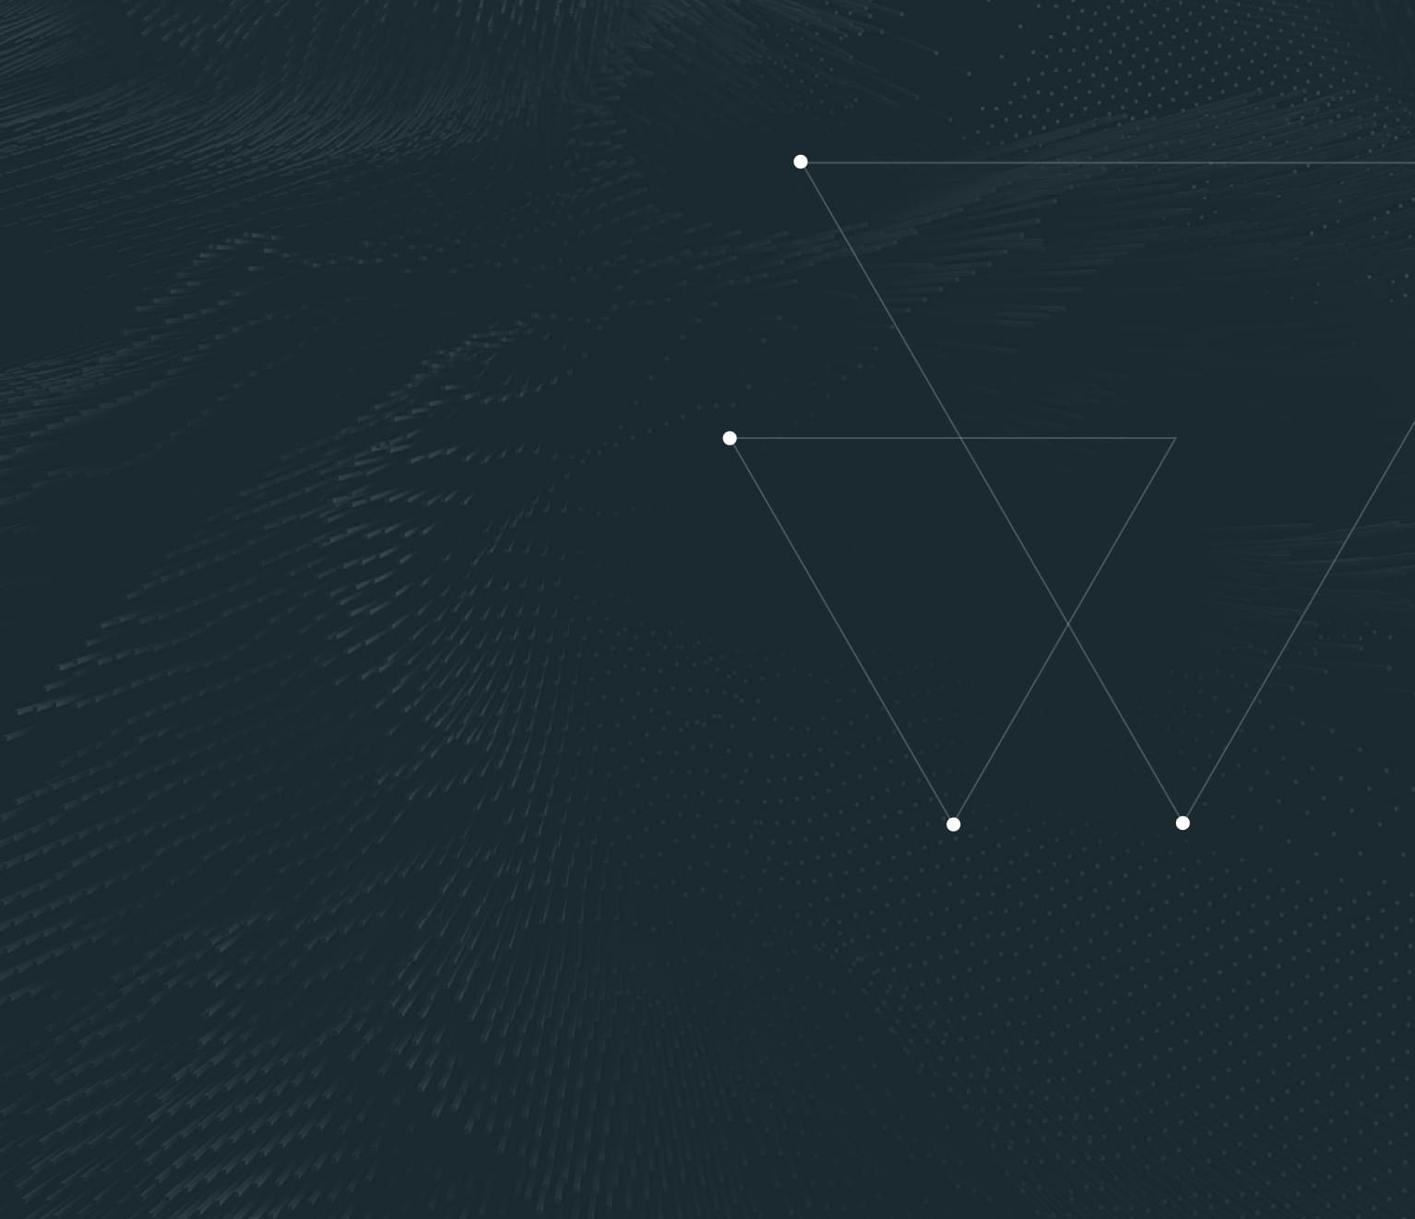
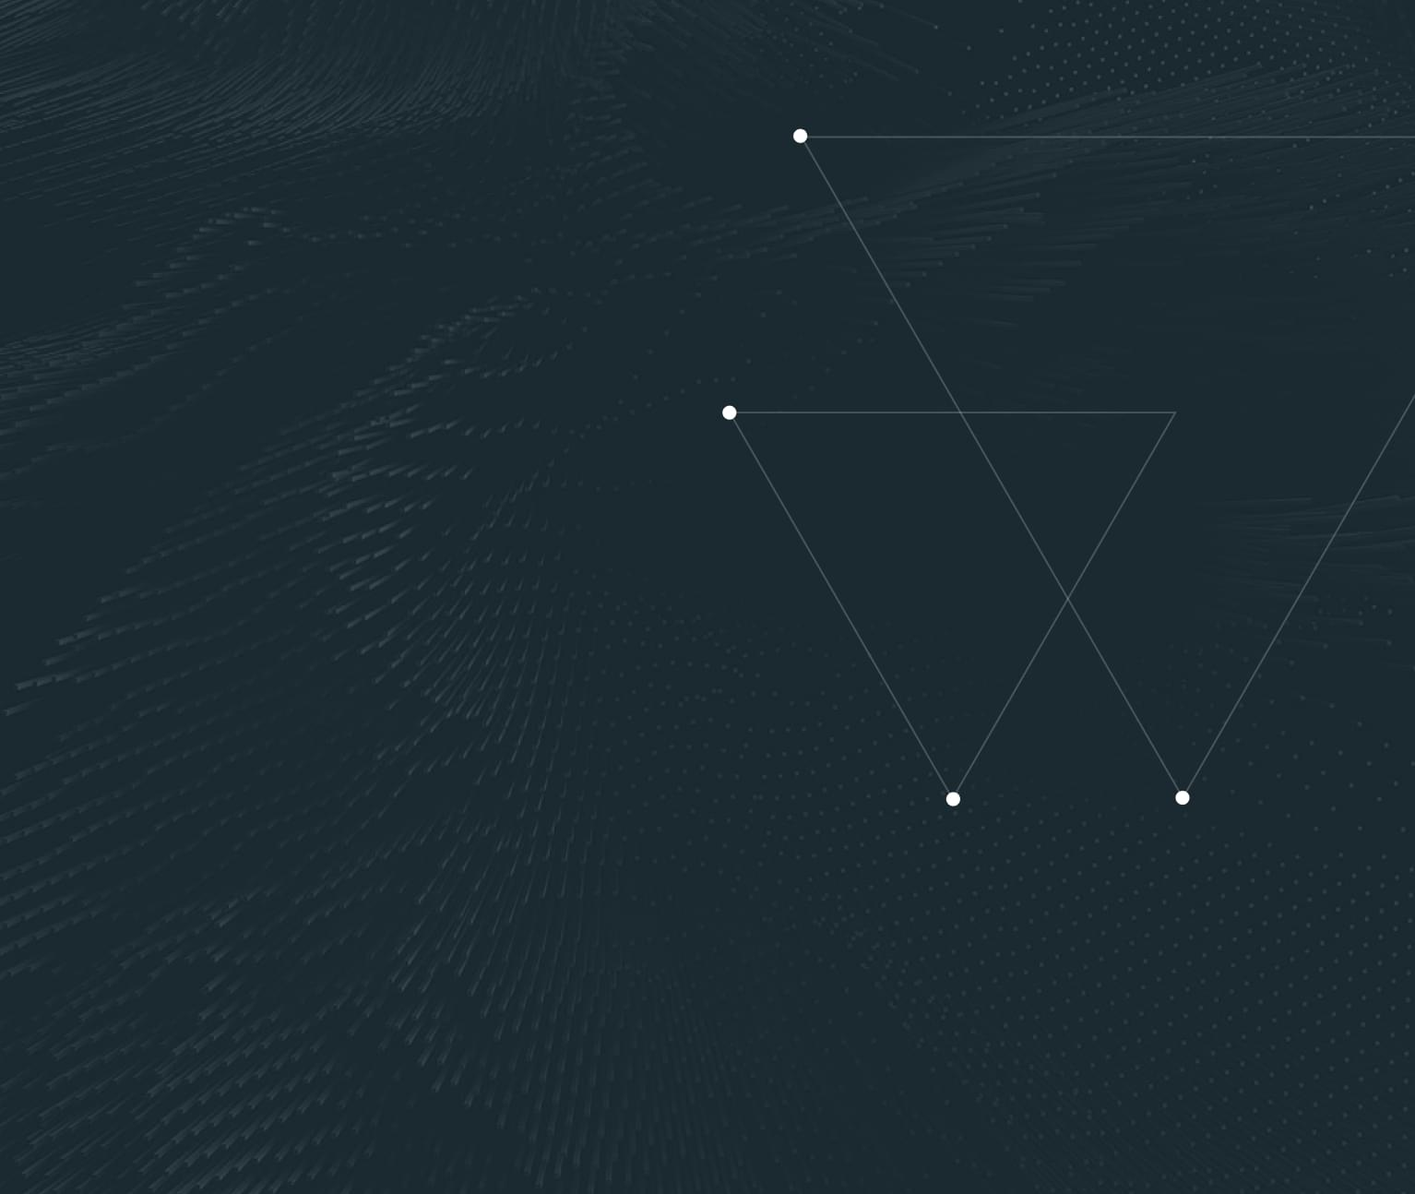
Вёрстка шапки и главного экрана

diff --git a/css/style.min.css b/css/style.min.css
@@ -1,3 +1,3 @@
 /*! normalize-scss | MIT/GPLv2 License | bit.ly/normalize-scss */
-html{-ms-text-size-adjust:100%;-webkit-text-size-adjust:100%;-webkit-box-sizing:border-box;box-sizing:border-box;height:100%;font-family:"PT Mono","Consolas",monospace;font-size:16px;line-height:22px}body{min-width:320px;min-height:100%;display:grid;grid-template-rows:-webkit-min-content 1fr -webkit-min-content;grid-template-rows:min-content 1fr min-content;-ms-flex-line-pack:start;align-content:start;margin:0;background-color:#fff;color:#000}article,aside,details,figcaption,figure,footer,header,main,menu,nav,section{display:block}h1{font-size:2em;margin:.67em 0}figure{margin:1em 40px}hr{-webkit-box-sizing:content-box;box-sizing:content-box;height:0;overflow:visible}code,kbd,pre,samp{font-family:monospace,monospace;font-size:1em}a{background-color:transparent;-webkit-text-decoration-skip:objects;text-decoration:none}abbr[title]{border-bottom:none;-webkit-text-decoration:underline dotted;text-decoration:underline dotted}b,strong{font-weight:bolder}dfn{font-style:italic}mark{background-color:#ff0;color:#000}small{font-size:80%}sub,sup{font-size:75%;line-height:0;position:relative;vertical-align:baseline}sub{bottom:-.25em}sup{top:-.5em}audio,canvas,video{display:inline-block}audio:not([controls]){display:none;height:0}img{border-style:none;max-width:100%;height:auto}svg:not(:root){overflow:hidden}button,input,optgroup,select,textarea{font-family:sans-serif;font-size:100%;line-height:1.15;margin:0}button,input{overflow:visible}button,select{text-transform:none}[type=reset],[type=submit],button,html [type=button]{-webkit-appearance:button}[type=button]::-moz-focus-inner,[type=reset]::-moz-focus-inner,[type=submit]::-moz-focus-inner,button::-moz-focus-inner{border-style:none;padding:0}[type=button]:-moz-focusring,[type=reset]:-moz-focusring,[type=submit]:-moz-focusring,button:-moz-focusring{outline:1px dotted ButtonText}[type=checkbox],[type=radio]{-webkit-box-sizing:border-box;box-sizing:border-box;padding:0}[type=number]::-webkit-inner-spin-button,[type=number]::-webkit-outer-spin-button{height:auto}[type=search]{-webkit-appearance:textfield;outline-offset:-2px}[type=search]::-webkit-search-cancel-button,[type=search]::-webkit-search-decoration{-webkit-appearance:none}::-webkit-file-upload-button{-webkit-appearance:button;font:inherit}fieldset{padding:.35em .75em .625em}legend{-webkit-box-sizing:border-box;box-sizing:border-box;display:table;max-width:100%;padding:0;color:inherit;white-space:normal}progress{display:inline-block;vertical-align:baseline}textarea{overflow:auto}summary{display:list-item}[hidden],template{display:none}@font-face{font-family:"PT Mono";font-weight:400;font-style:normal;font-display:swap;src:url(../fonts/ptmono-regular.woff2) format("woff2"),url(../fonts/ptmono-regular.woff) format("woff")}@font-face{font-family:"Roboto Condensed";font-weight:400;font-style:normal;font-display:swap;src:url(../fonts/robotocondensed-regular.woff2) format("woff2"),url(../fonts/robotocondensed-regular.woff) format("woff")}@font-face{font-family:"Roboto Condensed";font-weight:700;font-style:normal;font-display:swap;src:url(../fonts/robotocondensed-bold.woff2) format("woff2"),url(../fonts/robotocondensed-bold.woff) format("woff")}*,::after,::before{-webkit-box-sizing:inherit;box-sizing:inherit}.visually-hidden{position:absolute;width:1px;height:1px;margin:-1px;border:0;padding:0;white-space:nowrap;-webkit-clip-path:inset(100%);clip-path:inset(100%);clip:rect(0 0 0 0);overflow:hidden}.container{max-width:1200px;padding:0 40px;margin:0 auto}@media (max-width:1023px){.container{padding:0 20px}}@media (max-width:767px){.container{padding:0 10px}}
+html{-ms-text-size-adjust:100%;-webkit-text-size-adjust:100%;-webkit-box-sizing:border-box;box-sizing:border-box;height:100%;font-family:"PT Mono","Consolas",monospace;font-size:16px;line-height:22px}body{min-width:320px;min-height:100%;display:grid;grid-template-rows:-webkit-min-content 1fr -webkit-min-content;grid-template-rows:min-content 1fr min-content;-ms-flex-line-pack:start;align-content:start;margin:0;background-color:#fff;color:#000}article,aside,details,figcaption,figure,footer,header,main,menu,nav,section{display:block}h1{font-size:2em;margin:.67em 0}figure{margin:1em 40px}hr{-webkit-box-sizing:content-box;box-sizing:content-box;height:0;overflow:visible}code,kbd,pre,samp{font-family:monospace,monospace;font-size:1em}a{background-color:transparent;-webkit-text-decoration-skip:objects;text-decoration:none}abbr[title]{border-bottom:none;-webkit-text-decoration:underline dotted;text-decoration:underline dotted}b,strong{font-weight:bolder}dfn{font-style:italic}mark{background-color:#ff0;color:#000}small{font-size:80%}sub,sup{font-size:75%;line-height:0;position:relative;vertical-align:baseline}sub{bottom:-.25em}sup{top:-.5em}audio,canvas,video{display:inline-block}audio:not([controls]){display:none;height:0}img{border-style:none;max-width:100%;height:auto}svg:not(:root){overflow:hidden}button,input,optgroup,select,textarea{font-family:sans-serif;font-size:100%;line-height:1.15;margin:0}button,input{overflow:visible}button,select{text-transform:none}[type=reset],[type=submit],button,html [type=button]{-webkit-appearance:button}[type=button]::-moz-focus-inner,[type=reset]::-moz-focus-inner,[type=submit]::-moz-focus-inner,button::-moz-focus-inner{border-style:none;padding:0}[type=button]:-moz-focusring,[type=reset]:-moz-focusring,[type=submit]:-moz-focusring,button:-moz-focusring{outline:1px dotted ButtonText}[type=checkbox],[type=radio]{-webkit-box-sizing:border-box;box-sizing:border-box;padding:0}[type=number]::-webkit-inner-spin-button,[type=number]::-webkit-outer-spin-button{height:auto}[type=search]{-webkit-appearance:textfield;outline-offset:-2px}[type=search]::-webkit-search-cancel-button,[type=search]::-webkit-search-decoration{-webkit-appearance:none}::-webkit-file-upload-button{-webkit-appearance:button;font:inherit}fieldset{padding:.35em .75em .625em}legend{-webkit-box-sizing:border-box;box-sizing:border-box;display:table;max-width:100%;padding:0;color:inherit;white-space:normal}progress{display:inline-block;vertical-align:baseline}textarea{overflow:auto}summary{display:list-item}[hidden],template{display:none}@font-face{font-family:"PT Mono";font-weight:400;font-style:normal;font-display:swap;src:url(../fonts/ptmono-regular.woff2) format("woff2"),url(../fonts/ptmono-regular.woff) format("woff")}@font-face{font-family:"Roboto Condensed";font-weight:400;font-style:normal;font-display:swap;src:url(../fonts/robotocondensed-regular.woff2) format("woff2"),url(../fonts/robotocondensed-regular.woff) format("woff")}@font-face{font-family:"Roboto Condensed";font-weight:700;font-style:normal;font-display:swap;src:url(../fonts/robotocondensed-bold.woff2) format("woff2"),url(../fonts/robotocondensed-bold.woff) format("woff")}*,::after,::before{-webkit-box-sizing:inherit;box-sizing:inherit}.visually-hidden{position:absolute;width:1px;height:1px;margin:-1px;border:0;padding:0;white-space:nowrap;-webkit-clip-path:inset(100%);clip-path:inset(100%);clip:rect(0 0 0 0);overflow:hidden}.container{max-width:1464px;padding:0 24px;margin:0 auto}@media (max-width:767px){.container{padding:0 15px}}.button{display:block;padding:14px 26px;font-family:"Roboto Condensed","Arial",sans-serif;font-weight:700;font-size:14px;line-height:16px;text-align:center;letter-spacing:.05em;text-transform:uppercase;color:#fff;border:1px solid #fff;border-radius:5px}.page-header{padding:33px 0 0;overflow:hidden;background:#1b2d37 url(../img/main-bg-desktop.jpg) no-repeat center/cover}@media (max-width:1023px){.page-header{padding:20px 0 0;background-image:url(../img/main-bg-tablet.jpg)}}@media (max-width:767px){.page-header{padding:10px 0 72px;background-image:url(../img/main-bg-mobile.jpg)}}.header-top{margin-bottom:68px;display:-webkit-box;display:-ms-flexbox;display:flex;-ms-flex-wrap:wrap;flex-wrap:wrap;-webkit-box-pack:end;-ms-flex-pack:end;justify-content:flex-end;-webkit-box-align:center;-ms-flex-align:center;align-items:center}@media (max-width:1023px){.header-top{margin-bottom:0}}@media (max-width:767px){.header-top{margin-bottom:30px}}.header-top__logo{margin-right:auto}@media (max-width:767px){.header-top__logo{margin-left:2px}}.header-top__logo img{vertical-align:top}@media (max-width:767px){.header-top__logo img{width:38px;height:auto}}.header-top__contact{display:block;margin-left:81px;padding:15px 0 15px 40px;font-size:16px;line-height:18px;color:#fff;position:relative}.header-top__contact svg{position:absolute;top:50%;left:0;-webkit-transform:translate(0,-50%);transform:translate(0,-50%)}.header-top__contact:focus,.header-top__contact:hover{color:#00b2ff}.header-top__contact:active{opacity:.5}@media (max-width:1023px){.header-top__contact{margin-left:34px;padding:12px 0}.header-top__contact svg{position:static;top:0;-webkit-transform:none;transform:none}.header-top__contact span{display:none}}@media (max-width:767px){.header-top__contact{margin-left:24px}}@media (max-width:1023px){.header-top__contact--email svg{width:25px;height:19px}}.header-top__contact--phone svg{left:6px}@media (max-width:1023px){.header-top__contact--phone svg{width:24px;height:24px}}.header-top__button{margin-right:4px;margin-left:50px}.header-top__button:focus,.header-top__button:hover{color:#00b2ff;border-color:#00b2ff}.header-top__button:focus{opacity:.5}@media (max-width:1023px){.header-top__button{display:none}}.main-screen{max-width:785px;padding:105px 55px 275px 0;position:relative}@media (max-width:1023px){.main-screen{max-width:76%;padding:59px 55px 163px 66px}}@media (max-width:767px){.main-screen{max-width:100%;padding:136px 0 0}}.main-screen__wrapper{position:relative;z-index:90}@media (max-width:767px){.main-screen__wrapper{max-width:430px;margin:0 auto}}.main-screen h1{padding:0;margin:58px 0 26px -3px;font-family:"Roboto Condensed","Arial",sans-serif;font-weight:700;font-size:80px;line-height:94px;letter-spacing:.07em;text-transform:uppercase;color:#fff}@media (max-width:1023px){.main-screen h1{margin-bottom:29px;font-size:60px;line-height:70px}}@media (max-width:767px){.main-screen h1{margin-left:0;margin-bottom:27px;font-size:40px;line-height:47px}}.main-screen p{margin:0 0 45px;padding:0 0 0 95px;font-size:22px;line-height:34px;color:#fff;position:relative}.main-screen p::before{content:"";position:absolute;top:17px;left:0;width:66px;height:2px;background-color:#fff}@media (max-width:1023px){.main-screen p::before{width:33px}.main-screen p{margin-bottom:55px;padding-left:47px;font-size:18px;line-height:28px}}@media (max-width:767px){.main-screen p{margin-left:3px;margin-bottom:41px;font-size:16px;line-height:25px}}.main-screen__button{display:block;max-width:407px;margin-left:95px;padding:18px;background:#00b2ff;border:0;font-size:16px;line-height:19px}.main-screen__button:focus,.main-screen__button:hover{background:#fff;color:#00b2ff;-webkit-transform:scale(1.01);transform:scale(1.01)}.main-screen__button:active{background:rgba(255,255,255,.7)}@media (max-width:1023px){.main-screen__button{max-width:379px;margin-left:48px}}@media (max-width:767px){.main-screen__button{max-width:100%;margin-left:3px}.main-screen__button-text--desktop{display:none}}.main-screen__button-text--mobile{display:none}@media (max-width:767px){.main-screen__button-text--mobile{display:inline}}.main-screen img{max-width:none;position:absolute;top:50%;left:100%;-webkit-transform:translate(0,-50%);transform:translate(0,-50%)}@media (max-width:1023px){.main-screen img{width:465px;height:auto;top:41px;left:89%;-webkit-transform:none;transform:none}}@media (max-width:767px){.main-screen img{width:301px;top:0;left:calc(50% + 17px);-webkit-transform:translate(-50%,0);transform:translate(-50%,0)}}.main-screen__scroll-down{padding:10px;position:absolute;bottom:116px;left:-48px;-webkit-transform:rotate(-90deg);transform:rotate(-90deg);color:#fff;font-size:14px;line-height:16px;opacity:.5}.main-screen__scroll-down:focus,.main-screen__scroll-down:hover{opacity:.8}.main-screen__scroll-down:active{opacity:.2}@media (max-width:1023px){.main-screen__scroll-down{display:none}}
 /*# sourceMappingURL=style.min.css.map */

diff --git a/css/style.css b/css/style.css
@@ -474,12 +474,281 @@ a {
   overflow: hidden; }
 
 .container {
-  max-width: 1200px;
-  padding: 0 40px;
+  max-width: 1464px;
+  padding: 0 24px;
   margin: 0 auto; }
-  @media (max-width: 1023px) {
-    .container {
-      padding: 0 20px; } }
   @media (max-width: 767px) {
     .container {
-      padding: 0 10px; } }
+      padding: 0 15px; } }
+
+.button {
+  display: block;
+  padding: 14px 26px;
+  font-family: "Roboto Condensed", "Arial", sans-serif;
+  font-weight: 700;
+  font-size: 14px;
+  line-height: 16px;
+  text-align: center;
+  letter-spacing: 0.05em;
+  text-transform: uppercase;
+  color: #ffffff;
+  border: 1px solid #ffffff;
+  border-radius: 5px; }
+
+.page-header {
+  padding: 33px 0 0;
+  overflow: hidden;
+  background: #1b2d37 url("../img/main-bg-desktop.jpg") no-repeat center/cover; }
+  @media (max-width: 1023px) {
+    .page-header {
+      padding: 20px 0 0;
+      background-image: url("../img/main-bg-tablet.jpg"); } }
+  @media (max-width: 767px) {
+    .page-header {
+      padding: 10px 0 72px;
+      background-image: url("../img/main-bg-mobile.jpg"); } }
+
+.header-top {
+  margin-bottom: 68px;
+  display: -webkit-box;
+  display: -ms-flexbox;
+  display: flex;
+  -ms-flex-wrap: wrap;
+      flex-wrap: wrap;
+  -webkit-box-pack: end;
+      -ms-flex-pack: end;
+          justify-content: flex-end;
+  -webkit-box-align: center;
+      -ms-flex-align: center;
+          align-items: center; }
+  @media (max-width: 1023px) {
+    .header-top {
+      margin-bottom: 0; } }
+  @media (max-width: 767px) {
+    .header-top {
+      margin-bottom: 30px; } }
+
+.header-top__logo {
+  margin-right: auto; }
+  @media (max-width: 767px) {
+    .header-top__logo {
+      margin-left: 2px; } }
+
+.header-top__logo img {
+  vertical-align: top; }
+  @media (max-width: 767px) {
+    .header-top__logo img {
+      width: 38px;
+      height: auto; } }
+
+.header-top__contact {
+  display: block;
+  margin-left: 81px;
+  padding: 15px 0 15px 40px;
+  font-size: 16px;
+  line-height: 18px;
+  color: #ffffff;
+  position: relative; }
+  .header-top__contact svg {
+    position: absolute;
+    top: 50%;
+    left: 0;
+    -webkit-transform: translate(0, -50%);
+            transform: translate(0, -50%); }
+  .header-top__contact:hover, .header-top__contact:focus {
+    color: #00b2ff; }
+  .header-top__contact:active {
+    opacity: 0.5; }
+  @media (max-width: 1023px) {
+    .header-top__contact {
+      margin-left: 34px;
+      padding: 12px 0; }
+      .header-top__contact svg {
+        position: static;
+        top: 0;
+        -webkit-transform: none;
+                transform: none; }
+      .header-top__contact span {
+        display: none; } }
+  @media (max-width: 767px) {
+    .header-top__contact {
+      margin-left: 24px; } }
+
+@media (max-width: 1023px) {
+  .header-top__contact--email svg {
+    width: 25px;
+    height: 19px; } }
+
+.header-top__contact--phone svg {
+  left: 6px; }
+
+@media (max-width: 1023px) {
+  .header-top__contact--phone svg {
+    width: 24px;
+    height: 24px; } }
+
+.header-top__button {
+  margin-right: 4px;
+  margin-left: 50px; }
+  .header-top__button:hover, .header-top__button:focus {
+    color: #00b2ff;
+    border-color: #00b2ff; }
+  .header-top__button:focus {
+    opacity: 0.5; }
+  @media (max-width: 1023px) {
+    .header-top__button {
+      display: none; } }
+
+.main-screen {
+  max-width: 785px;
+  padding: 105px 55px 275px 0;
+  position: relative; }
+  @media (max-width: 1023px) {
+    .main-screen {
+      max-width: 76%;
+      padding: 59px 55px 163px 66px; } }
+  @media (max-width: 767px) {
+    .main-screen {
+      max-width: 100%;
+      padding: 136px 0 0; } }
+
+.main-screen__wrapper {
+  position: relative;
+  z-index: 90; }
+  @media (max-width: 767px) {
+    .main-screen__wrapper {
+      max-width: 430px;
+      margin: 0 auto; } }
+
+.main-screen h1 {
+  margin: 0;
+  padding: 0;
+  margin: 58px 0 26px -3px;
+  font-family: "Roboto Condensed", "Arial", sans-serif;
+  font-weight: 700;
+  font-size: 80px;
+  line-height: 94px;
+  letter-spacing: 0.07em;
+  text-transform: uppercase;
+  color: #ffffff; }
+  @media (max-width: 1023px) {
+    .main-screen h1 {
+      margin-bottom: 29px;
+      font-size: 60px;
+      line-height: 70px; } }
+  @media (max-width: 767px) {
+    .main-screen h1 {
+      margin-left: 0;
+      margin-bottom: 27px;
+      font-size: 40px;
+      line-height: 47px; } }
+
+.main-screen p {
+  margin: 0;
+  padding: 0;
+  margin-bottom: 45px;
+  padding-left: 95px;
+  font-size: 22px;
+  line-height: 34px;
+  color: #ffffff;
+  position: relative; }
+  .main-screen p::before {
+    content: "";
+    position: absolute;
+    top: 17px;
+    left: 0;
+    width: 66px;
+    height: 2px;
+    background-color: #ffffff; }
+    @media (max-width: 1023px) {
+      .main-screen p::before {
+        width: 33px; } }
+  @media (max-width: 1023px) {
+    .main-screen p {
+      margin-bottom: 55px;
+      padding-left: 47px;
+      font-size: 18px;
+      line-height: 28px; } }
+  @media (max-width: 767px) {
+    .main-screen p {
+      margin-left: 3px;
+      margin-bottom: 41px;
+      font-size: 16px;
+      line-height: 25px; } }
+
+.main-screen__button {
+  display: block;
+  max-width: 407px;
+  margin-left: 95px;
+  padding: 18px;
+  background: #00b2ff;
+  border: none;
+  font-size: 16px;
+  line-height: 19px; }
+  .main-screen__button:hover, .main-screen__button:focus {
+    background: #ffffff;
+    color: #00b2ff;
+    -webkit-transform: scale(1.01);
+            transform: scale(1.01); }
+  .main-screen__button:active {
+    background: rgba(255, 255, 255, 0.7); }
+  @media (max-width: 1023px) {
+    .main-screen__button {
+      max-width: 379px;
+      margin-left: 48px; } }
+  @media (max-width: 767px) {
+    .main-screen__button {
+      max-width: 100%;
+      margin-left: 3px; } }
+
+@media (max-width: 767px) {
+  .main-screen__button-text--desktop {
+    display: none; } }
+
+.main-screen__button-text--mobile {
+  display: none; }
+  @media (max-width: 767px) {
+    .main-screen__button-text--mobile {
+      display: inline; } }
+
+.main-screen img {
+  max-width: none;
+  position: absolute;
+  top: 50%;
+  left: 100%;
+  -webkit-transform: translate(0, -50%);
+          transform: translate(0, -50%); }
+  @media (max-width: 1023px) {
+    .main-screen img {
+      width: 465px;
+      height: auto;
+      top: 41px;
+      left: 89%;
+      -webkit-transform: none;
+              transform: none; } }
+  @media (max-width: 767px) {
+    .main-screen img {
+      width: 301px;
+      top: 0;
+      left: calc(50% + 17px);
+      -webkit-transform: translate(-50%, 0);
+              transform: translate(-50%, 0); } }
+
+.main-screen__scroll-down {
+  padding: 10px;
+  position: absolute;
+  bottom: 116px;
+  left: -48px;
+  -webkit-transform: rotate(-90deg);
+          transform: rotate(-90deg);
+  color: #ffffff;
+  font-size: 14px;
+  line-height: 16px;
+  opacity: 0.5; }
+  .main-screen__scroll-down:hover, .main-screen__scroll-down:focus {
+    opacity: 0.8; }
+  .main-screen__scroll-down:active {
+    opacity: 0.2; }
+  @media (max-width: 1023px) {
+    .main-screen__scroll-down {
+      display: none; } }

diff --git a/index.html b/index.html
@@ -15,27 +15,51 @@
 <body>
 
   <header class="page-header">
-    <nav class="main-nav">
-      <a class="main-nav__logo">
-        <img class="logo" src="img/logo-light.svg" alt="Логотип компании «Smart Device»" width="202" height="52">
-      </a>
-      <div class="main-nav__info info">
-        <a href="" class="info__email">info@sd.ru</a>
-        <a href="" class="info__phone">+7 (495) 000 52 52</a>
-        <a href="">Заказать звонок</a>
+    <div class="container">
+      <div class="header-top">
+        <a class="header-top__logo">
+          <picture>
+            <source media="(max-width: 767px)" srcset="img/logo-mobile.svg">
+            <img src="img/logo-light.svg" alt="Логотип компании «Smart Device»" width="202" height="52">
+          </picture>
+        </a>
+
+        <a class="header-top__contact header-top__contact--email" href="mailto:info@sd.ru">
+          <svg width="19" height="14">
+            <use xlink:href="img/sprite.svg#icon-envelope"></use>
+          </svg>
+          <span>info@sd.ru</span>
+        </a>
+        <a class="header-top__contact header-top__contact--phone" href="tel:+74950005252">
+          <svg width="18" height="18">
+            <use xlink:href="img/sprite.svg#icon-phone"></use>
+          </svg>
+          <span>+7 (495) 000 52 52</span>
+        </a>
+
+        <a class="header-top__button button" href="#">Заказать звонок</a>
       </div>
-    </nav>
-    <section class="main-screen">
-      <h1>Печатные платы</h1>
-      <p>производство и монтаж, поставка комплектующих, блоков и модулей</p>
-      <img src="https://www.placecage.com/c/705/515" alt="Набор из пяти печатных плат">
-      <a href="">Получить бесплатную консультацию</a>
-    </section>
-    <a href="">Скролл вниз</a>
+
+      <section class="main-screen">
+        <div class="main-screen__wrapper">
+          <h1>Печатные платы</h1>
+          <p>производство и монтаж, поставка комплектующих, блоков и модулей</p>
+          <a class="main-screen__button button" href="#feedback">
+            <span class="main-screen__button-text main-screen__button-text--desktop">Получить бесплатную
+              консультацию</span>
+            <span class="main-screen__button-text main-screen__button-text--mobile">Бесплатная консультация</span>
+          </a>
+        </div>
+        <img src="img/product-desktop.png" width="705" height="515" alt="Набор из пяти печатных плат">
+        <a class="main-screen__scroll-down" href="#benefits">Скролл вниз</a>
+      </section>
+
+    </div>
   </header>
+
   <main>
     <div class="sections-wrapper">
-      <section class="benefits">
+      <section class="benefits" id="benefits">
         <h2 class="visually-hidden"></h2>
         <ul>
           <li>
@@ -93,7 +117,7 @@
   </main>
 
   <footer class="page-footer">
-    <section class="page-footer__feedback feedback">
+    <section class="page-footer__feedback feedback" id="feedback">
       <h2>Остались вопросы? Задайте их нам!</h2>
       <p>Мы проконсультируем Вас бесплатно</p>
       <form action="" method="POST">
@@ -141,7 +165,6 @@
       <p>Developed by wow studio </p>
     </section>
   </footer>
-
 
 </body>
 
